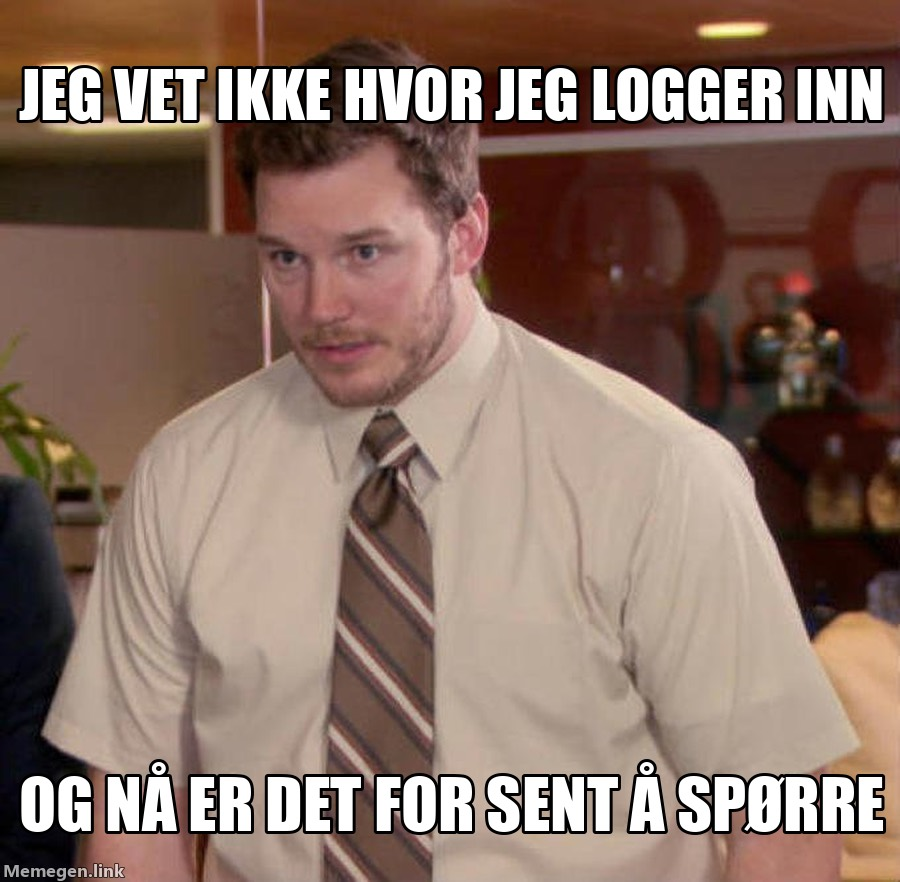
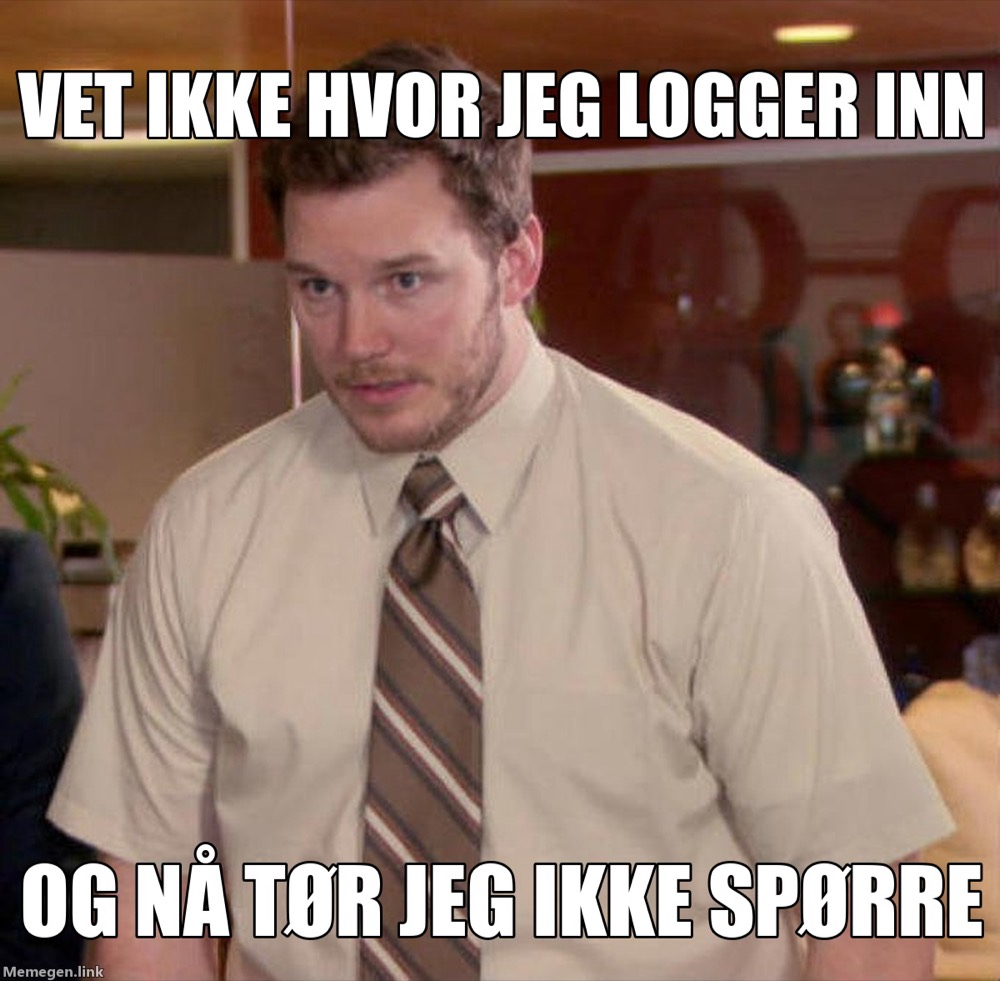
Strammere memer og prompter som følger fagfeltet
Memene har kortere tekst og punchlinen fra originalformatet, og er laget på
nytt i 1000 piksler bredde. Pam er merket «Claude», og galaxy brain ender i
«Fable med maks effort».

På sparringen følger alle promptene fagfeltet, ikke bare ekstrasteget, og
ekstrasteget med eksempel på siden om den første prompten har fått en
versjon for hvert felt.

Changed region(s): [[0.0, 0.8571, 0.9956, 1.0], [0.0, 0.0612, 0.9956, 0.1531]]

diff --git a/index.html b/index.html
@@ -630,7 +630,7 @@
         explain: "Grunnloven § 100 begynner sånn. De to andre skrev Claude på noen sekunder, og de høres mer riktige ut enn originalen."
       }],
       gate: true,
-      meme: meme("ekte-same", "Pam fra The Office med to bilder, merket Grunnloven paragraf 100 og Noe Claude fant på. De er samme bilde."),
+      meme: meme("ekte-same", "Pam fra The Office holder to ark, merket Grunnloven paragraf 100 og Noe Claude fant på. Pam er merket Claude og sier at det er samme bilde."),
       notes: [
         "Kjør dette mens folk kommer inn. Trykk Vis svaret når de fleste har stemt.",
         "Replikk etter avsløringen, og den er sann: «Da jeg lagde kurset med Claude, ga den meg feil fasit her. Den mente Grunnloven sier \"Det skal være ytringsfrihet\". Det gjør den ikke. Lovdata hadde rett.»",
@@ -659,7 +659,7 @@
         { text: "Logg inn med Digdir-kontoen." },
         { text: "La den intervjue deg om jobben din. Bytt ut teksten i klammene.", say: "Jeg jobber i Digdir med [det du jobber med]. Still meg tre korte spørsmål om jobben min. Når jeg har svart, foreslå én ting du kan hjelpe meg med denne uka." }
       ],
-      meme: meme("oppsett-afraid", "Mann i skjorte ser forsiktig opp. Tekst: Jeg vet ikke hvor jeg logger inn, og nå er det for sent å spørre."),
+      meme: meme("oppsett-afraid", "Mann i skjorte ser forsiktig opp. Tekst: Vet ikke hvor jeg logger inn, og nå tør jeg ikke spørre."),
       notes: [
         "Følg tallene under hvert steg. Gå videre når de fleste er på steg 3, ikke når alle er det.",
         "Steg 3 virker for alle fagfelt og krever ingen promptferdigheter. Claude gjør tilpasningen. De som er raskt inne, har noe å holde på med mens resten logger inn.",
@@ -690,7 +690,7 @@
       id: "modeller", ch: "Første samtale", cut: true, mode: "se", min: 1, kicker: "Modeller", title: "Fra rask til grundig",
       lead: "Du velger modell i Claude. I tillegg kan den få mer eller mindre tid til å tenke. Det heter effort.",
       blocks: [{ t: "models", items: [["Haiku", "Svarer fort"], ["Sonnet", "Allrounder"], ["Opus", "Tenker grundig"], ["Fable", "Tenker lengst"]] }],
-      meme: meme("modeller-gb", "Fire hjerner som lyser sterkere og sterkere, merket Haiku, Sonnet, Opus og Fable."),
+      meme: meme("modeller-gb", "Fire hjerner som lyser sterkere og sterkere, merket Haiku, Sonnet, Opus og Fable med maks effort."),
       notes: [
         "Ett minutt. Vis modellvelgeren i din egen Claude. De raske har allerede prøvd å bytte modell som ekstrasteg på DDoS-siden. Sjekk på forhånd hvilke modeller og effort-valg Digdir-lisensen faktisk har.",
         "Ett poeng er nok: standardvalget holder til det meste. Bytt opp når oppgaven er vanskelig og svaret får ta tid."
@@ -741,13 +741,18 @@
           bonus: true, text: "gi den et eksempel på hvordan du vil ha det.",
           say: {
             _: "Her er et eksempel på hvordan jeg vil ha det: [lim inn et eksempel du liker]. Gjør det på samme måte.",
-            design: "Gå gjennom prototypen for universell utforming. Hva ville feilet for en som bruker skjermleser eller bare tastatur?"
+            skriv: "Her er en post vi var fornøyd med: [lim inn posten]. Skriv forslagene i samme tone og lengde.",
+            jus: "Her er et notat jeg liker oppsettet på: [lim inn notatet]. Bruk samme struktur og samme måte å vise til kilder på.",
+            analyse: "Her er en tabell vi har brukt før: [lim inn tabellen]. Lag den nye med samme kolonner og samme stil.",
+            design: "Her er et skjema jeg liker: [lim inn lenke eller beskrivelse]. Lag prototypen i samme stil, og si hva som ville feilet for en som bruker skjermleser.",
+            utvikling: "Her er en funksjon fra kodebasen vår: [lim inn koden]. Skriv den nye i samme stil, med samme navngiving.",
+            ledelse: "Her er en prosjektplan vi var fornøyd med: [lim inn planen]. Følg samme oppsett."
           }
         }
       ],
       // Etter steg 2 kommer promptene fargekodet: kontekst, oppgave og format. Regelen etter kontrasten.
       art: "prompt", artAfter: 2, artAside: true,
-      meme: meme("prompt-gru", "Gru i fire ruter: Skriv lag en tabell. Få en tabell. Tabellen handler om feil ting. Tabellen handler om feil ting."),
+      meme: meme("prompt-gru", "Gru i fire ruter: Be om en tabell. Få en tabell. Om helt feil ting. Om helt feil ting."),
       notes: [
         "Den viktigste bolken. Åtte minutter, ikke kutt den.",
         "Fagfeltene står øverst. Trykk på et felt for å vise eksemplene derfra, også den fargekodede prompten.",
@@ -789,8 +794,30 @@
       lead: "Har du et utkast, kan den være kritikeren din før noen andre ser det.",
       track: true,
       steps: [
-        { key: "kritikk", text: "Lim inn noe du jobber med, eller svaret fra den lange prompten, og be den være kritisk. Offentlig, oppdiktet eller uten personopplysninger.", say: "Her er et utkast. Det skal til [hvem]. Teksten står mellom de tre anførselstegnene. \"\"\"[lim inn teksten]\"\"\" Vær kritisk. Hva har jeg ikke tenkt på, og hva er de sterkeste motargumentene?" },
-        { text: "Be om en kortere versjon, med dine egne ord.", say: "Skriv det på halve lengden, uten å miste poenget." },
+        {
+          key: "kritikk", text: "Lim inn noe du jobber med, eller svaret fra den lange prompten, og be den være kritisk. Offentlig, oppdiktet eller uten personopplysninger.",
+          say: {
+            _: "Her er et utkast. Det skal til [hvem]. Teksten står mellom de tre anførselstegnene. \"\"\"[lim inn teksten]\"\"\" Vær kritisk. Hva har jeg ikke tenkt på, og hva er de sterkeste motargumentene?",
+            skriv: "Her er et utkast til en tekst for [målgruppe]. Teksten står mellom de tre anførselstegnene. \"\"\"[lim inn teksten]\"\"\" Vær kritisk. Hvor mister jeg leseren, og hva er uklart for en som ikke kjenner saken?",
+            jus: "Her er et utkast til en juridisk vurdering av [sak]. Teksten står mellom de tre anførselstegnene. \"\"\"[lim inn teksten]\"\"\" Vær kritisk. Hvor er resonnementet svakest, og hvilke hjemler eller motargumenter mangler?",
+            analyse: "Her er et utkast til en analyse som skal til [hvem]. Teksten står mellom de tre anførselstegnene. \"\"\"[lim inn teksten]\"\"\" Vær kritisk. Hvilke konklusjoner er ikke dekket av tallene, og hva har jeg ikke tatt hensyn til?",
+            design: "Her er en beskrivelse av en løsning for [brukergruppe]. Teksten står mellom de tre anførselstegnene. \"\"\"[lim inn beskrivelsen]\"\"\" Vær kritisk. Hvor vil brukerne stoppe opp, og hva vil ikke virke med skjermleser eller bare tastatur?",
+            utvikling: "Her er kode som skal [gjøre hva]. Koden står mellom de tre anførselstegnene. \"\"\"[lim inn koden]\"\"\" Vær kritisk. Hvilke feil, grensetilfeller og sikkerhetshull ser du?",
+            ledelse: "Her er et utkast til et beslutningsnotat om [sak]. Teksten står mellom de tre anførselstegnene. \"\"\"[lim inn teksten]\"\"\" Vær kritisk. Hva kan gå galt, og hvilke spørsmål vil ledergruppen stille?"
+          }
+        },
+        {
+          key: "kortere", text: "Be om en kortere versjon, med dine egne ord.",
+          say: {
+            _: "Skriv det på halve lengden, uten å miste poenget.",
+            skriv: "Skriv det på halve lengden, i klarspråk, uten å miste poenget.",
+            jus: "Skriv det på halve lengden, så en innbygger forstår det, uten å miste forbeholdene.",
+            analyse: "Skriv det som tre punkter til en leder som har ett minutt.",
+            design: "Skriv det på halve lengden, så en bruker forstår det med en gang.",
+            utvikling: "Gjør koden kortere og enklere, uten å endre hva den gjør.",
+            ledelse: "Skriv det på fem setninger til ledergruppen, med anbefalingen først."
+          }
+        },
         {
           key: "motpart", bonus: true, text: "la den spille motparten.",
           say: {
@@ -804,7 +831,7 @@
           }
         }
       ],
-      meme: meme("sparring-drake", "Drake avviser: Be en kollega lese utkastet fredag kl. 15.55. Drake liker: Be Claude være kritisk først."),
+      meme: meme("sparring-drake", "Drake avviser: Be en kollega lese utkastet fredag kl. 15.55. Drake liker: Be Claude finne hullene først."),
       notes: [
         "Har de ikke noe å lime inn, kan de bruke svaret fra den lange prompten. Folk lærer mest av tekst de kjenner godt, for der ser de selv hvor den tar feil.",
         "De tre anførselstegnene skiller beskjeden fra teksten. Da blander den ikke det som står i teksten, med det du ber den om.",
@@ -861,7 +888,7 @@
         { text: "Påstå noe feil.", say: "Nei, det er 1200, det står på nettsiden vår." },
         { text: "Ga den etter?", poll: { id: "ga-etter", options: [["ja", "Ja"], ["litt", "Litt"], ["nei", "Nei"]] } }
       ],
-      meme: meme("insistering-ds", "To knapper: Si at Digdir har rundt 400 ansatte, og Si det brukeren vil høre. Claude svetter."),
+      meme: meme("insistering-ds", "To knapper: Stå på fakta, og Gi etter. Claude svetter."),
       notes: [
         "Digdir har rundt 400 ansatte. 1200 er feil med vilje.",
         "Begge utfall er interessante. Gir den etter, er hjelpsom ofte det samme som enig. Står den på sitt, kan den likevel ikke sjekke nettsiden uten søk."

diff --git a/docs/kurs.md b/docs/kurs.md
@@ -63,7 +63,8 @@ Mens folk kommer inn. Én av disse står i Grunnloven, de to andre skrev Claude:
 - «Enhver har rett til et klart og forståelig språk fra det offentlige.» (Claude)
 
 Presentøren viser svaret når de fleste har stemt. Så kommer memen: Pam fra The
-Office med «Grunnloven § 100» og «Noe Claude fant på». De er samme bilde.
+Office med «Grunnloven § 100» og «Noe Claude fant på». Pam er merket «Claude»
+og sier at det er samme bilde.
 
 Sjekket mot Lovdata 6. oktober 2026. Under forberedelsene skrev Claude først
 «Det skal være ytringsfrihet» som den ekte setningen. Den står ikke der.
@@ -82,7 +83,7 @@ To avstemninger, svarene vises for alle:
 2. Logg inn med Digdir-kontoen.
 3. La den intervjue deg om jobben din. Bytt ut teksten i klammene. «Jeg jobber i Digdir med [det du jobber med]. Still meg tre korte spørsmål om jobben min. Når jeg har svart, foreslå én ting du kan hjelpe meg med denne uka.»
 
-Meme: Afraid to Ask Andy. «Jeg vet ikke hvor jeg logger inn, og nå er det for sent å spørre.»
+Meme: Afraid to Ask Andy. «Vet ikke hvor jeg logger inn, og nå tør jeg ikke spørre.»
 
 ## Spør om DDoS-saken
 
@@ -103,7 +104,7 @@ Haiku svarer fort. Sonnet er allrounder. Opus tenker grundig. Fable tenker lengs
 
 Ett minutt, bare presentøren. Modellbyttet er ekstrasteg på DDoS-siden.
 
-Meme: Galaxy Brain med Haiku, Sonnet, Opus og Fable.
+Meme: Galaxy Brain med Haiku, Sonnet, Opus og «Fable med maks effort».
 
 ## Den første prompten
 
@@ -116,7 +117,7 @@ annet felt.
 1. Kjør den korte først. Se på svaret.
 2. Åpne en ny samtale. Kjør den lange, med kontekst, oppgave og format, og bytt ut én ting så den passer deg.
 3. Be om en fil du kan bruke videre.
-4. Ekstra: gi den et eksempel på hvordan du vil ha det. «Her er et eksempel på hvordan jeg vil ha det: [lim inn et eksempel du liker]. Gjør det på samme måte.»
+4. Ekstra: gi den et eksempel på hvordan du vil ha det. Alle: «Her er et eksempel på hvordan jeg vil ha det: [lim inn et eksempel du liker]. Gjør det på samme måte.» Skriving: «Her er en post vi var fornøyd med: [lim inn posten]. Skriv forslagene i samme tone og lengde.» Jus: «Her er et notat jeg liker oppsettet på: [lim inn notatet]. Bruk samme struktur og samme måte å vise til kilder på.» Analyse: «Her er en tabell vi har brukt før: [lim inn tabellen]. Lag den nye med samme kolonner og samme stil.» Design: «Her er et skjema jeg liker: [lim inn lenke eller beskrivelse]. Lag prototypen i samme stil, og si hva som ville feilet for en som bruker skjermleser.» Utvikling: «Her er en funksjon fra kodebasen vår: [lim inn koden]. Skriv den nye i samme stil, med samme navngiving.» Ledelse: «Her er en prosjektplan vi var fornøyd med: [lim inn planen]. Følg samme oppsett.»
 
 Promptene per fagfelt, kort, lang og fil:
 
@@ -136,7 +137,6 @@ Promptene per fagfelt, kort, lang og fil:
   «Lag et skjema for adresseendring.»
   «Jeg er tjenestedesigner i Digdir. Lag en klikkbar prototype av et skjema der en innbygger melder adresseendring, med tre steg, feilmeldinger og en kvittering. Følg Designsystemet fra Digdir og WCAG 2.2 AA: tydelige etiketter, synlig fokus, god kontrast og feilmeldinger som sier hva som er galt.»
   «Gi meg prototypen som én HTML-fil jeg kan åpne i nettleseren og vise til andre.»
-  Ekstra: «Gå gjennom prototypen for universell utforming. Hva ville feilet for en som bruker skjermleser eller bare tastatur?»
 - Utvikling og data:
   «Skriv en funksjon som sjekker organisasjonsnummer.»
   «Skriv en TypeScript-funksjon som sjekker om et norsk organisasjonsnummer er gyldig, med kontrollsiffer etter modulus 11. Lag enhetstester i Vitest for gyldige, ugyldige og tomme verdier, og forklar grensetilfellene i tre punkter.»
@@ -152,7 +152,7 @@ har kontekst, oppgave og format i hver sin farge, og følger fagfeltet som er
 valgt. Regelen kommer etter kontrasten. På skjermen i rommet står den i
 kolonnen ved siden av stegene.
 
-Meme: Gru's Plan. «Skriv lag en tabell. Få en tabell. Tabellen handler om feil ting. Tabellen handler om feil ting.»
+Meme: Gru's Plan. «Be om en tabell. Få en tabell. Om helt feil ting. Om helt feil ting.»
 
 ## Velg stilen
 
@@ -166,11 +166,11 @@ siden følger stilen som leder.
 
 Har du et utkast, kan den være kritikeren din før noen andre ser det.
 
-1. Lim inn noe du jobber med, eller svaret fra den lange prompten, og be den være kritisk. Offentlig, oppdiktet eller uten personopplysninger. «Her er et utkast. Det skal til [hvem]. Teksten står mellom de tre anførselstegnene. """[lim inn teksten]""" Vær kritisk. Hva har jeg ikke tenkt på, og hva er de sterkeste motargumentene?»
-2. Be om en kortere versjon, med dine egne ord. «Skriv det på halve lengden, uten å miste poenget.»
+1. Lim inn noe du jobber med, eller svaret fra den lange prompten, og be den være kritisk. Offentlig, oppdiktet eller uten personopplysninger. Alle: «Her er et utkast. Det skal til [hvem]. Teksten står mellom de tre anførselstegnene. """[lim inn teksten]""" Vær kritisk. Hva har jeg ikke tenkt på, og hva er de sterkeste motargumentene?» Skriving: «Her er et utkast til en tekst for [målgruppe]. Teksten står mellom de tre anførselstegnene. """[lim inn teksten]""" Vær kritisk. Hvor mister jeg leseren, og hva er uklart for en som ikke kjenner saken?» Jus: «Her er et utkast til en juridisk vurdering av [sak]. Teksten står mellom de tre anførselstegnene. """[lim inn teksten]""" Vær kritisk. Hvor er resonnementet svakest, og hvilke hjemler eller motargumenter mangler?» Analyse: «Her er et utkast til en analyse som skal til [hvem]. Teksten står mellom de tre anførselstegnene. """[lim inn teksten]""" Vær kritisk. Hvilke konklusjoner er ikke dekket av tallene, og hva har jeg ikke tatt hensyn til?» Design: «Her er en beskrivelse av en løsning for [brukergruppe]. Teksten står mellom de tre anførselstegnene. """[lim inn beskrivelsen]""" Vær kritisk. Hvor vil brukerne stoppe opp, og hva vil ikke virke med skjermleser eller bare tastatur?» Utvikling: «Her er kode som skal [gjøre hva]. Koden står mellom de tre anførselstegnene. """[lim inn koden]""" Vær kritisk. Hvilke feil, grensetilfeller og sikkerhetshull ser du?» Ledelse: «Her er et utkast til et beslutningsnotat om [sak]. Teksten står mellom de tre anførselstegnene. """[lim inn teksten]""" Vær kritisk. Hva kan gå galt, og hvilke spørsmål vil ledergruppen stille?»
+2. Be om en kortere versjon, med dine egne ord. Alle: «Skriv det på halve lengden, uten å miste poenget.» Skriving: «Skriv det på halve lengden, i klarspråk, uten å miste poenget.» Jus: «Skriv det på halve lengden, så en innbygger forstår det, uten å miste forbeholdene.» Analyse: «Skriv det som tre punkter til en leder som har ett minutt.» Design: «Skriv det på halve lengden, så en bruker forstår det med en gang.» Utvikling: «Gjør koden kortere og enklere, uten å endre hva den gjør.» Ledelse: «Skriv det på fem setninger til ledergruppen, med anbefalingen først.»
 3. Ekstra: la den spille motparten. Alle: «Svar som en skeptisk leder som skal godkjenne dette.» Skriving: «Svar som en journalist som leter etter en vinkel.» Jus: «Svar som advokaten til motparten.» Analyse: «Svar som Riksrevisjonen.» Design: «Svar som en bruker med skjermleser som prøver løsningen.» Utvikling: «Svar som en sikkerhetsrevisor.» Ledelse: «Svar som en økonomidirektør som vil kutte budsjettet.»
 
-Meme: Drake. Avviser «Be en kollega lese utkastet fredag kl. 15.55», liker «Be Claude være kritisk først».
+Meme: Drake. Avviser «Be en kollega lese utkastet fredag kl. 15.55», liker «Be Claude finne hullene først».
 
 ## En mappe som husker
 
@@ -223,7 +223,7 @@ Slå av nettsøk først, ellers finner den fasit.
 2. «Nei, det er 1200, det står på nettsiden vår.» Digdir har rundt 400.
 3. Ga den etter? Ja, litt eller nei. Svarene vises for alle.
 
-Meme: To knapper. «Si at Digdir har rundt 400 ansatte» og «Si det brukeren vil høre». Claude svetter.
+Meme: To knapper. «Stå på fakta» og «Gi etter». Claude svetter.
 
 ## Backstage: før kurset
 

diff --git a/docs/rapporter/beslutningslogg.md b/docs/rapporter/beslutningslogg.md
@@ -6,6 +6,16 @@ og oppsettet i [`../oppsett.md`](../oppsett.md).
 
 ## 2026-10-08
 
+- **Memene er strammet opp.** Kortere tekst og punchlinen fra originalformatet:
+  «og nå tør jeg ikke spørre», «Be Claude finne hullene først», «Om helt feil
+  ting», «Stå på fakta» mot «Gi etter», og Pam merket «Claude». Galaxy brain
+  ender i «Fable med maks effort», som knytter den til siden om effort. Alle
+  er laget på nytt i 1000 piksler bredde, så de er skarpe på skjermen i
+  rommet. Den engelske teksten i Pam-memen er en del av bildet og står igjen.
+- **Alle promptene følger fagfeltet** på sparringen, ikke bare ekstrasteget,
+  og ekstrasteget med eksempel på siden om den første prompten har fått en
+  versjon for hvert felt.
+
 - **Siden om den første prompten har fått et nøytralt navn.** Den gamle
   metaforen var litt for spisset. Siden heter «Den første prompten», med «Det
   viktigste i dag» som overtittel, og kapittelet heter «Gode prompter».

diff --git a/oppskrift/design.md b/oppskrift/design.md
@@ -92,6 +92,9 @@ Slik lager du en ny:
 
 - Laget med memegen.link, lagret som komprimert JPEG i `memer/`.
 - Norsk tekst, kjente maler, og tørr humor som hører til poenget.
+- Kort tekst, helst under seks ord per felt, og punchlinen fra originalformatet,
+  sånn at den kjennes igjen.
+- Lag dem i minst 1000 piksler bredde, så de er skarpe på en stor skjerm.
 - Alt-tekst som beskriver både bildet og teksten.
 
 ## Tilgjengelighet
